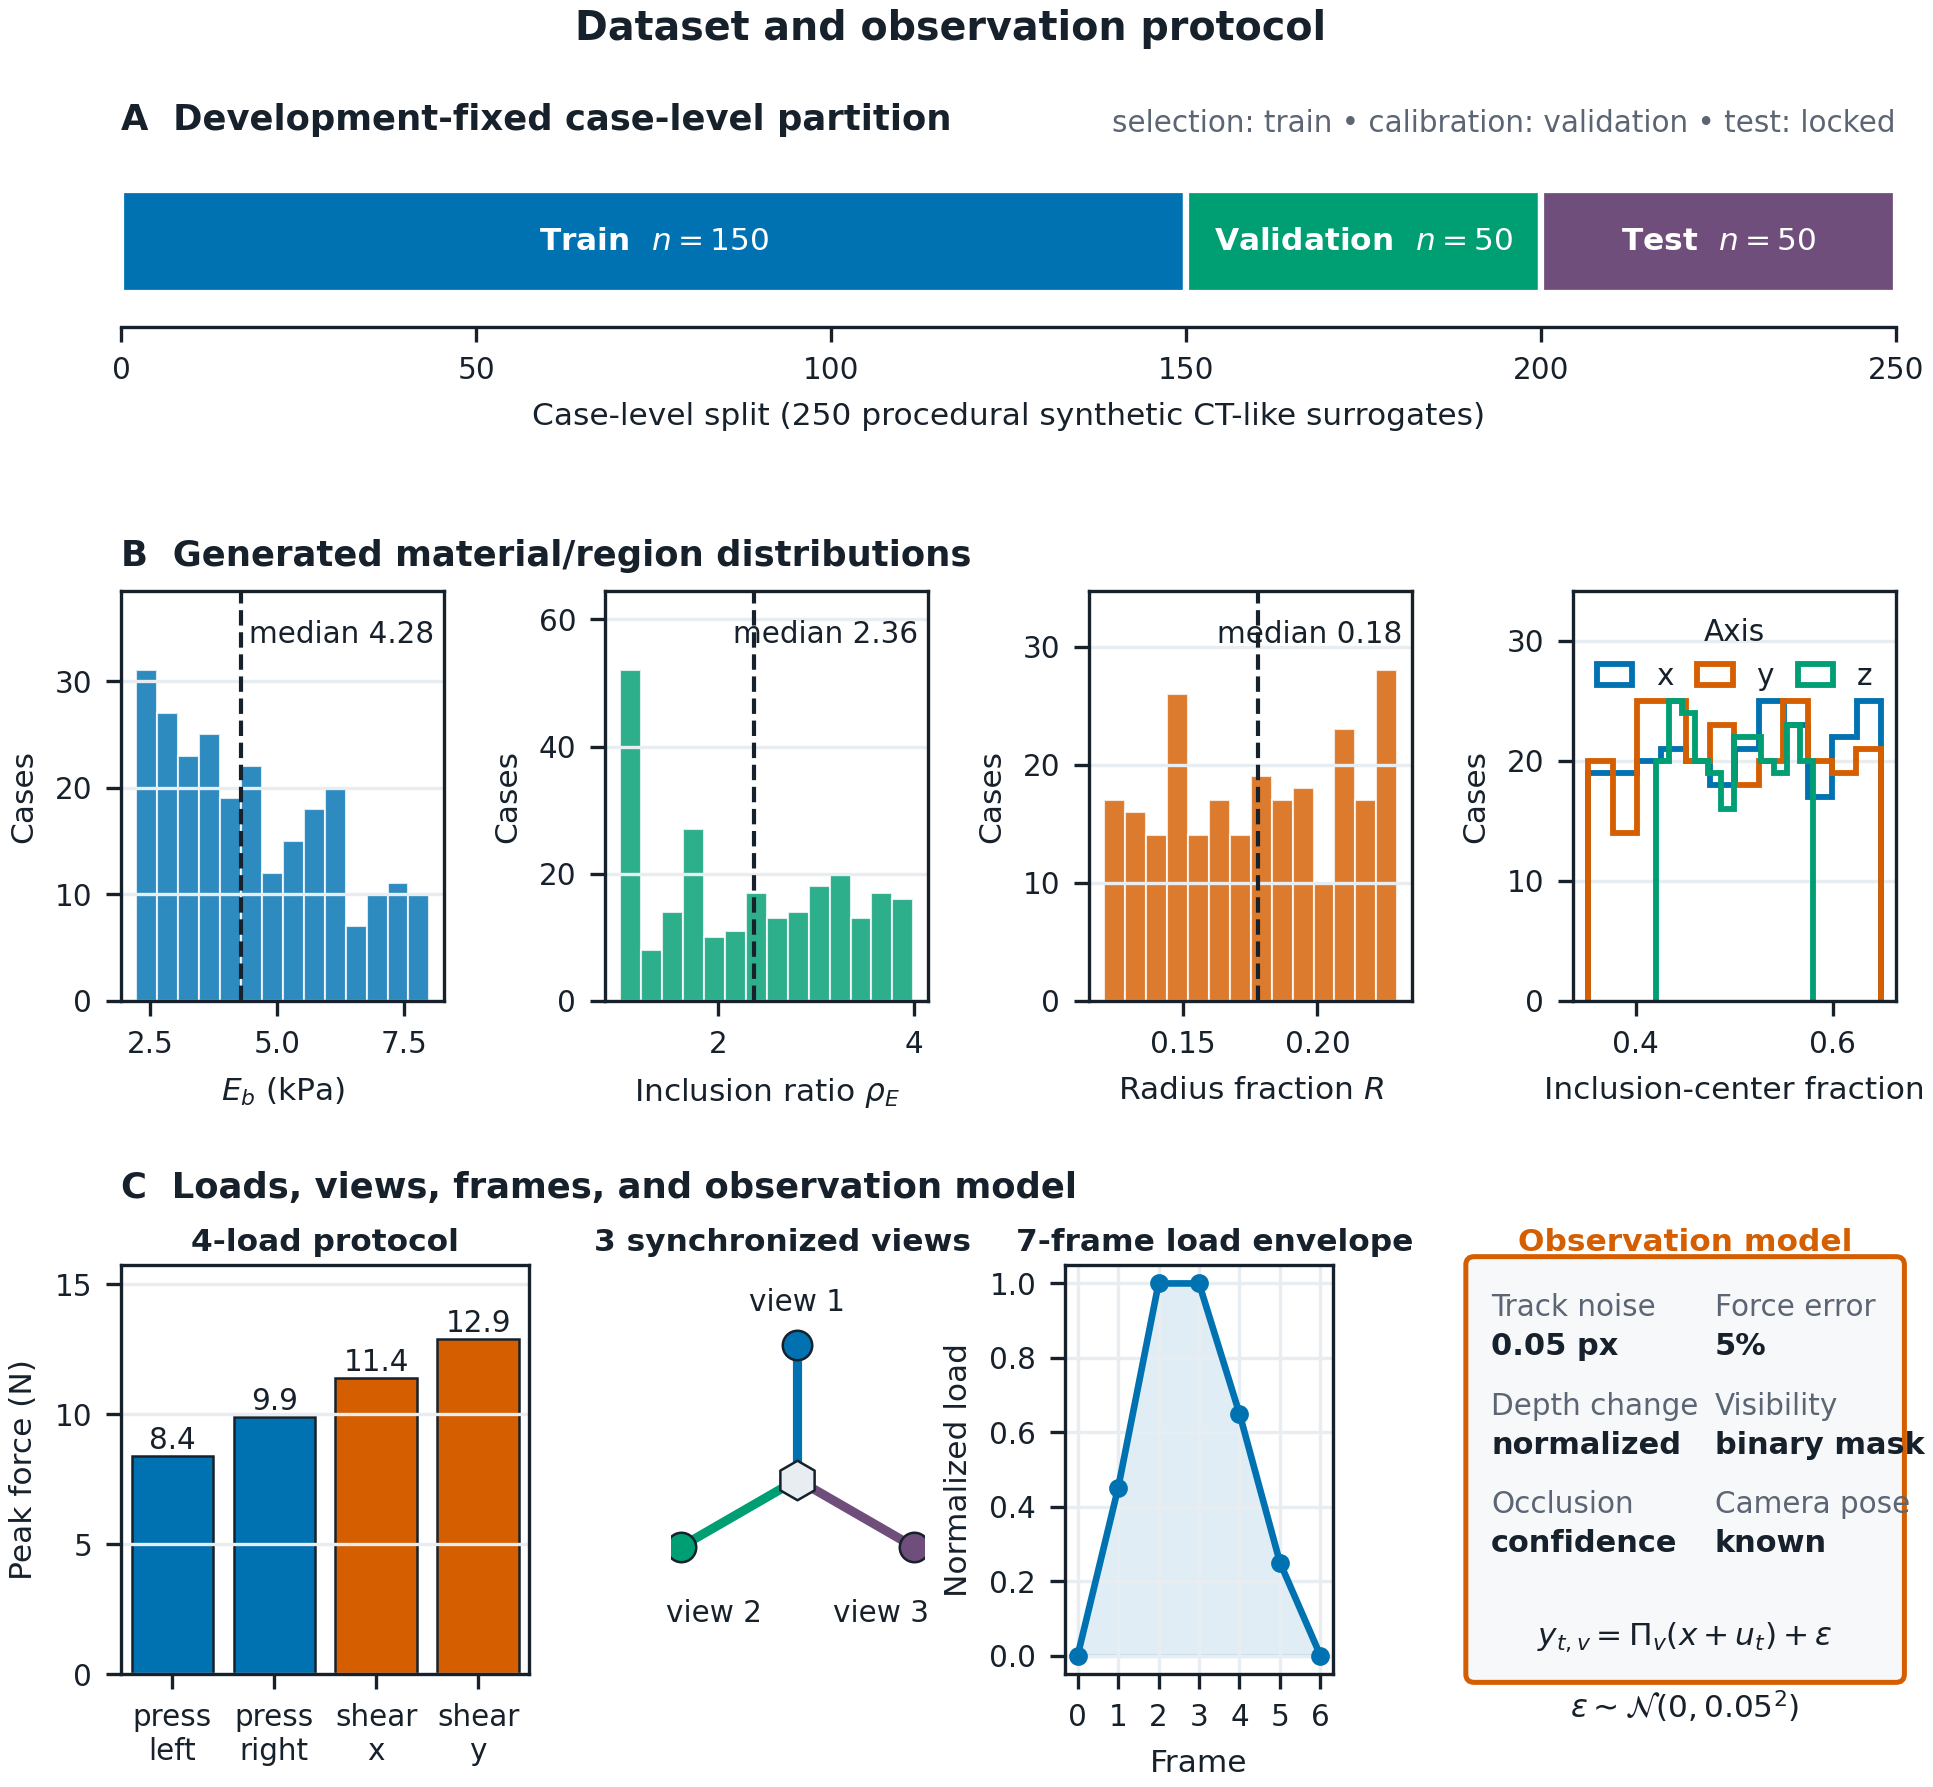
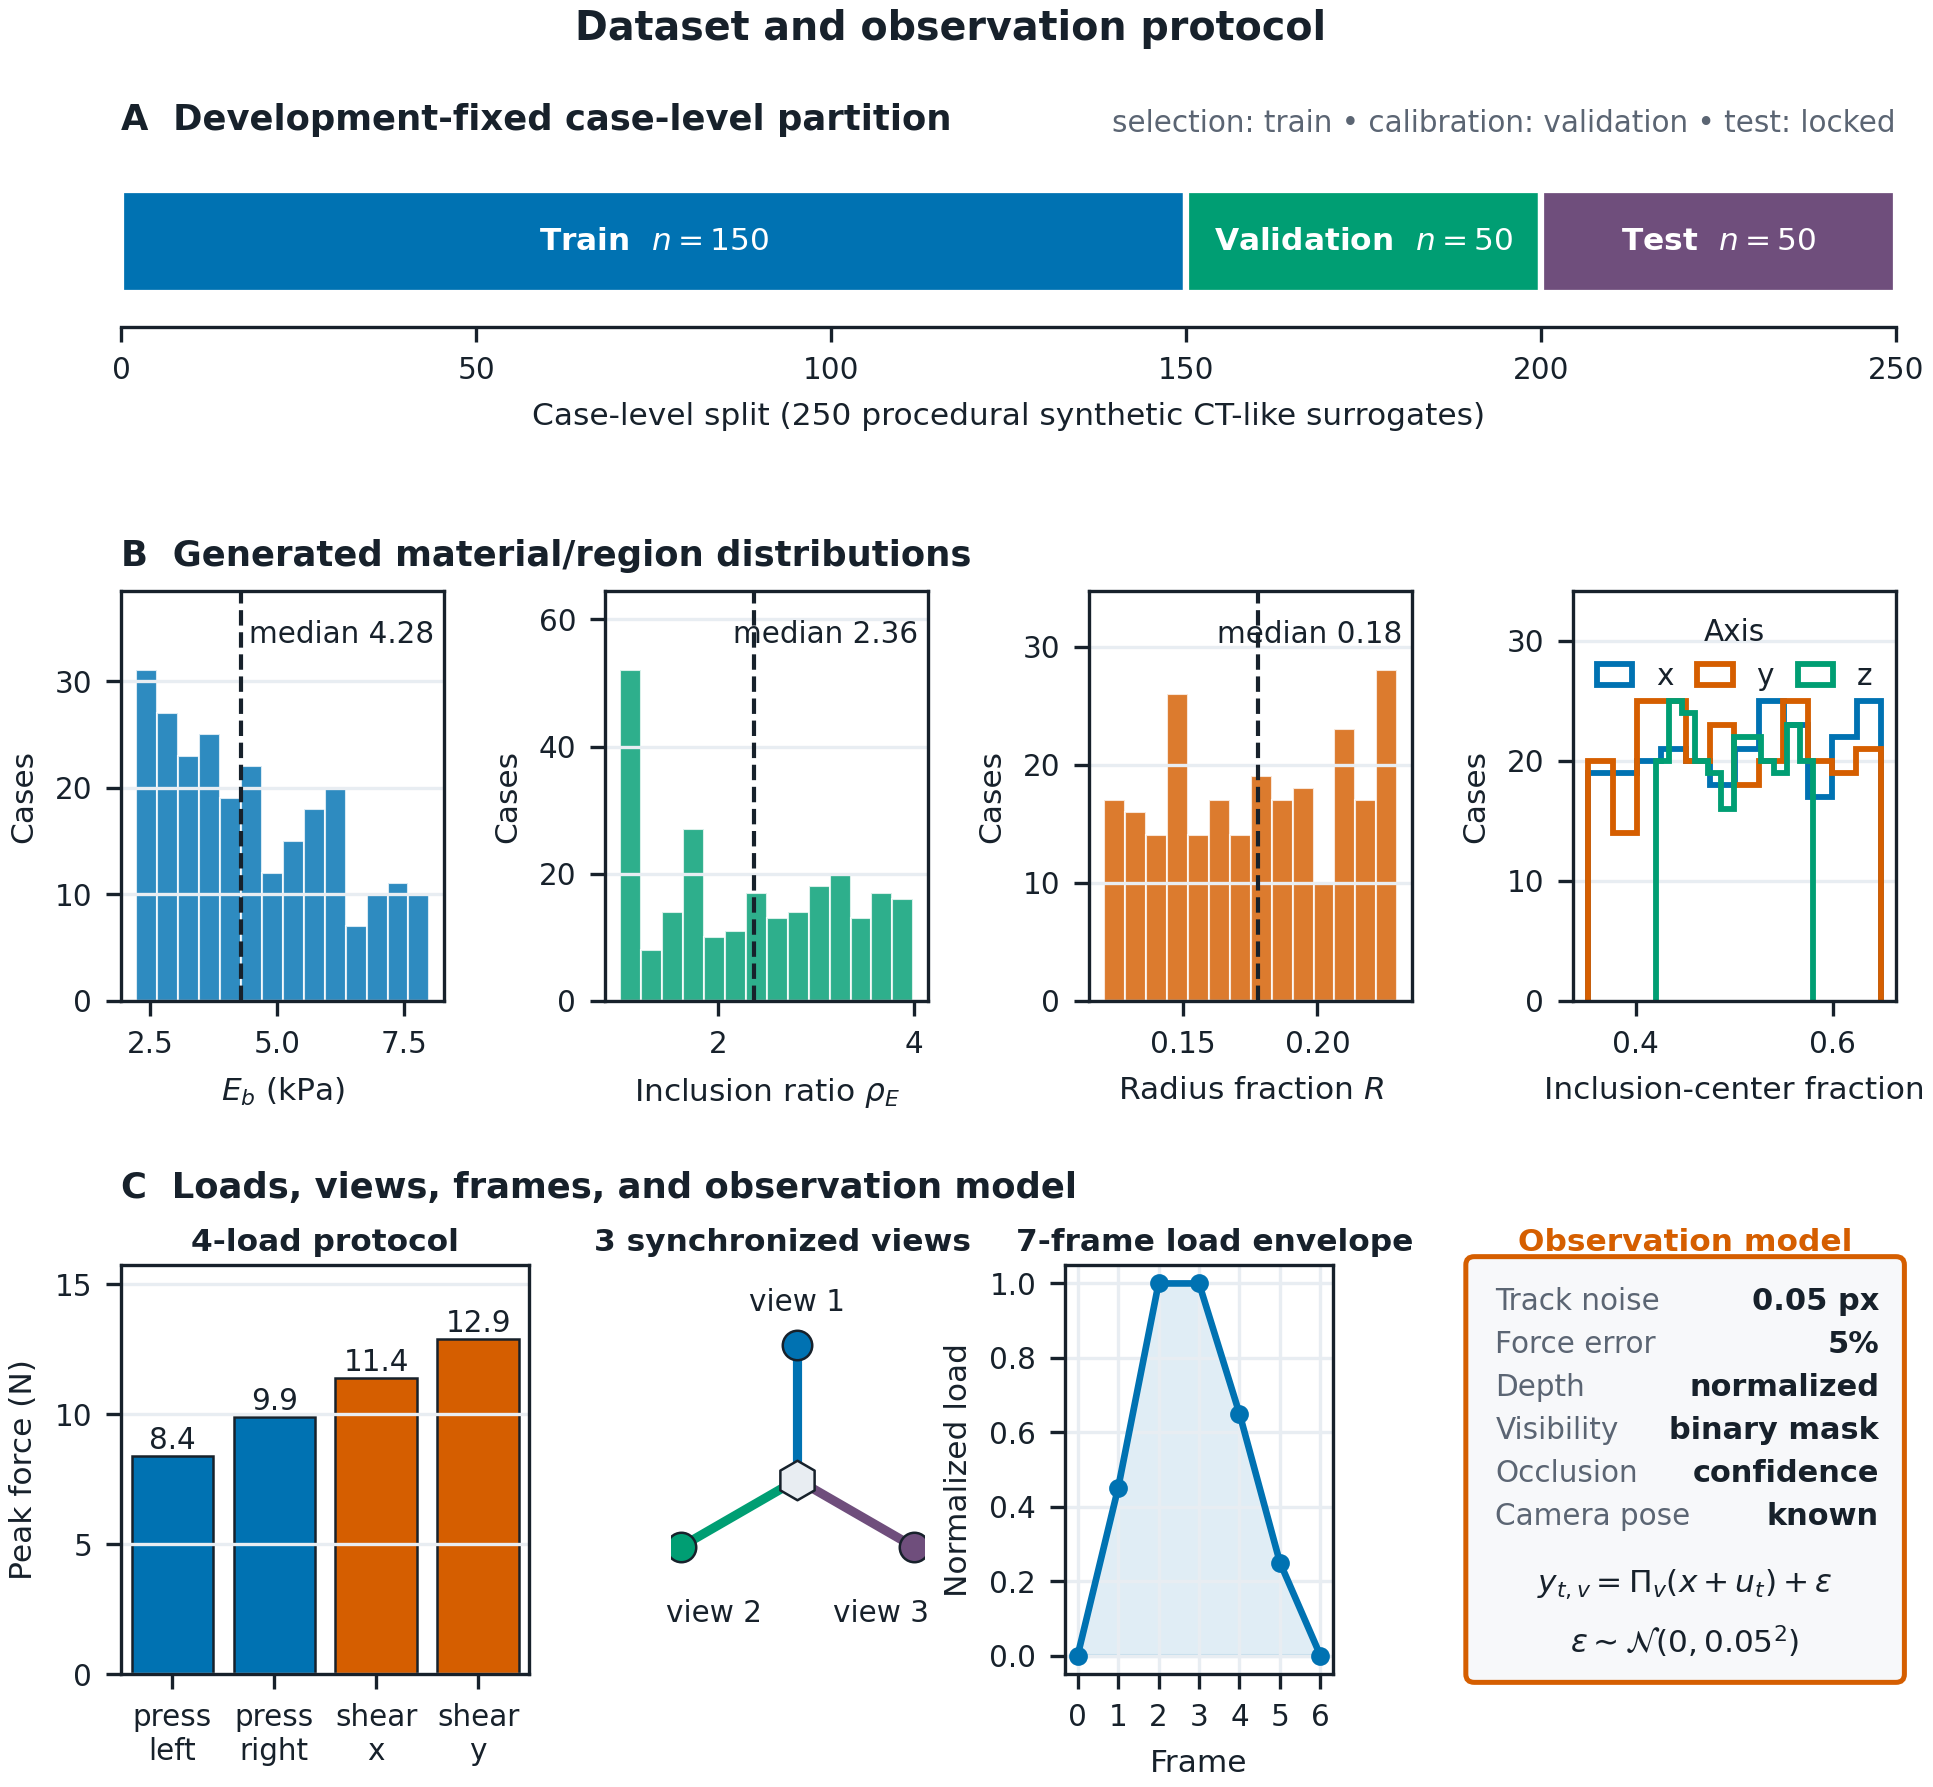
Figure 2: observation-model box laid out in one column so every entry and the noise model sit inside the frame

Changed region(s): [[0.776, 0.7079, 0.9933, 0.9233]]

diff --git a/paper_aiim/figures/generate_aiim_figures.py b/paper_aiim/figures/generate_aiim_figures.py
@@ -987,21 +987,22 @@ def fig_dataset_protocol(manifest: dict[str, Any], output_dir: Path) -> None:
     noise_px = manifest["generation_config"]["motion_noise_std"] * 200.0
     force_prior = manifest["generation_config"]["force_prior_fraction"]
     ax.text(0.5, 1.02, "Observation model", transform=ax.transAxes, ha="center", va="bottom", fontsize=small_pt + 0.4, fontweight="semibold", color=ORANGE)
-    # Six compact entries in two columns, formula on the last row.
+    # Six entries, one per row (label left, value right), formula below.
     cards = (
-        (0.04, 0.80, "Track noise", f"{noise_px:.2f} px"),
-        (0.57, 0.80, "Force error", f"{force_prior:.0%}"),
-        (0.04, 0.56, "Depth change", "normalized"),
-        (0.57, 0.56, "Visibility", "binary mask"),
-        (0.04, 0.32, "Occlusion", "confidence"),
-        (0.57, 0.32, "Camera pose", "known"),
+        ("Track noise", f"{noise_px:.2f} px"),
+        ("Force error", f"{force_prior:.0%}"),
+        ("Depth", "normalized"),
+        ("Visibility", "binary mask"),
+        ("Occlusion", "confidence"),
+        ("Camera pose", "known"),
     )
-    for x0, y0, title, value in cards:
-        ax.text(x0, y0 + 0.095, title, transform=ax.transAxes, fontsize=small_pt, color=GRAY, va="center")
-        ax.text(x0, y0, value, transform=ax.transAxes, fontsize=small_pt + 0.2, color=INK, fontweight="semibold", va="center")
+    for row, (title, value) in enumerate(cards):
+        y0 = 0.91 - 0.105 * row
+        ax.text(0.05, y0, title, transform=ax.transAxes, fontsize=small_pt, color=GRAY, va="center")
+        ax.text(0.96, y0, value, transform=ax.transAxes, fontsize=small_pt + 0.2, color=INK, fontweight="semibold", va="center", ha="right")
     ax.text(
         0.5,
-        0.09,
+        0.22,
         r"$y_{t,v}=\Pi_v(x+u_t)+\epsilon$",
         transform=ax.transAxes,
         ha="center",
@@ -1011,7 +1012,7 @@ def fig_dataset_protocol(manifest: dict[str, Any], output_dir: Path) -> None:
     )
     ax.text(
         0.5,
-        -0.08,
+        0.08,
         r"$\epsilon\sim\mathcal{N}(0,0.05^2)$",
         transform=ax.transAxes,
         ha="center",
